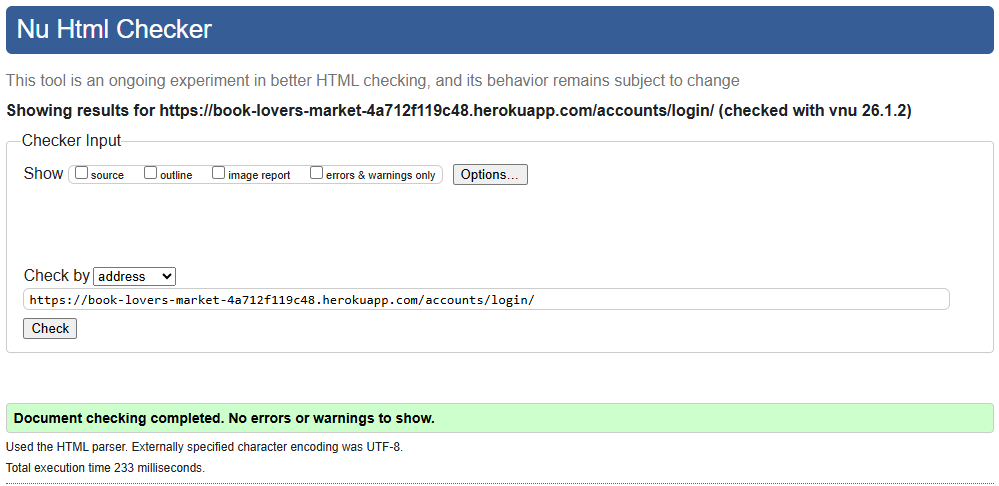
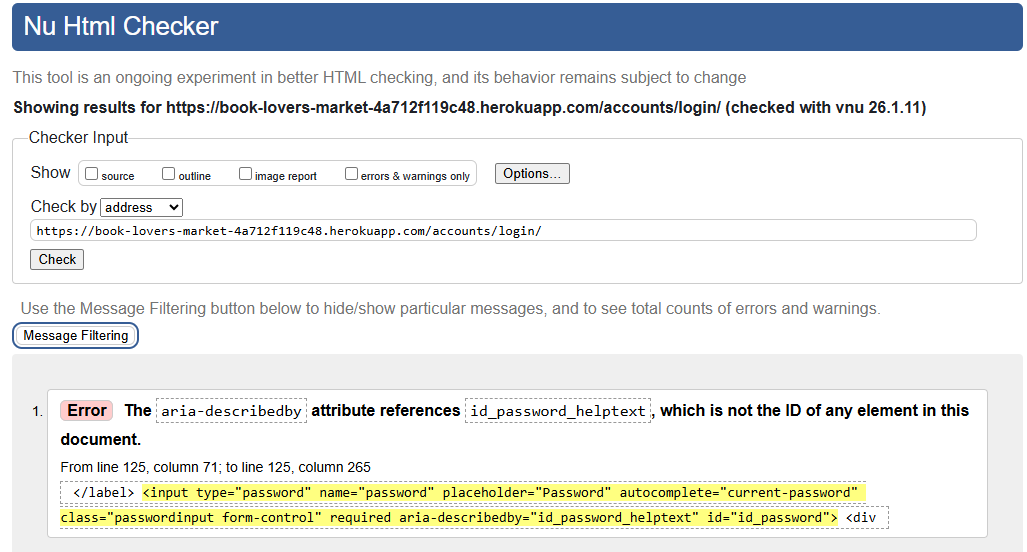
Update html validation issue for login page in TESTING

Changed region(s): [[0.0, 0.5247, 1.0, 0.9877], [0.0, 0.0, 1.0, 0.4938], [0.993, 0.2469, 1.0, 0.7099]]

diff --git a/TESTING.md b/TESTING.md
@@ -18,7 +18,7 @@ Direct links to the results have been added unless made impossible due to login/
 | library | [sales.html](https://github.com/Gary-Burke/book-lovers-market/blob/main/library/templates/library/sales.html) | [Results Link](https://validator.w3.org/nu/?doc=https%3A%2F%2Fbook-lovers-market-4a712f119c48.herokuapp.com%2Flibrary%2Fsales%2F) | ![screenshot](documentation/testing/validation/html-library-sales.png) | No errors or warnings |
 | pages | [about.html](https://github.com/Gary-Burke/book-lovers-market/blob/main/pages/templates/pages/about.html) | [Results Link](https://validator.w3.org/nu/?doc=https%3A%2F%2Fbook-lovers-market-4a712f119c48.herokuapp.com%2Fabout%2F) | ![screenshot](documentation/testing/validation/html-pages-about.png) | No errors or warnings |
 | pages | [home.html](https://github.com/Gary-Burke/book-lovers-market/blob/main/pages/templates/pages/home.html) | [Results Link](https://validator.w3.org/nu/?doc=https%3A%2F%2Fbook-lovers-market-4a712f119c48.herokuapp.com%2F) | ![screenshot](documentation/testing/validation/html-pages-home.png) | No errors or warnings |
-| templates | [login.html](https://github.com/Gary-Burke/book-lovers-market/blob/main/templates/account/login.html) | [Results Link](https://validator.w3.org/nu/?doc=https%3A%2F%2Fbook-lovers-market-4a712f119c48.herokuapp.com%2Faccounts%2Flogin%2F) | ![screenshot](documentation/testing/validation/html-templates-login.png) | No errors or warnings |
+| templates | [login.html](https://github.com/Gary-Burke/book-lovers-market/blob/main/templates/account/login.html) | [Results Link](https://validator.w3.org/nu/?doc=https%3A%2F%2Fbook-lovers-market-4a712f119c48.herokuapp.com%2Faccounts%2Flogin%2F) | ![screenshot](documentation/testing/validation/html-templates-login.png) | There is one html validation error related to an aria-describedby attribute but this caused by the usage of Django AllAuth and Crispy Forms packages and is outside of my control.  |
 | templates | [logout.html](https://github.com/Gary-Burke/book-lovers-market/blob/main/templates/account/logout.html) | [Results Link](https://validator.w3.org/nu/?doc=https%3A%2F%2Fbook-lovers-market-4a712f119c48.herokuapp.com%2Faccounts%2Flogout%2F) | ![screenshot](documentation/testing/validation/html-templates-logout.png) | No errors or warnings |
 | templates | [signup.html](https://github.com/Gary-Burke/book-lovers-market/blob/main/templates/account/signup.html) | [Results Link](https://validator.w3.org/nu/?doc=https%3A%2F%2Fbook-lovers-market-4a712f119c48.herokuapp.com%2Faccounts%2Fsignup%2F) | ![screenshot](documentation/testing/validation/html-templates-signup.png) | No errors or warnings |
 | templates | [password_reset.html](https://github.com/Gary-Burke/book-lovers-market/blob/main/templates/account/signup.html) | [Results Link](https://validator.w3.org/nu/?doc=https%3A%2F%2Fbook-lovers-market-4a712f119c48.herokuapp.com%2Faccounts%2Fpassword%2Freset%2F) | ![screenshot](documentation/testing/validation/html-templates-password-reset.png) | No errors or warnings |
@@ -205,6 +205,7 @@ Any remaining open issues can be tracked [here](https://www.github.com/Gary-Burk
 | Issue | Screenshot |
 | --- | --- |
 | The project is designed to be responsive from `320px` and upwards, in line with the material taught on the course LMS. Minor layout inconsistencies may occur on extra-wide (e.g. 4k/8k monitors), or smart-display devices (e.g. Nest Hub, Smart Watches, Gameboy Color, etc.), as these resolutions are outside the project’s scope, as taught by Code Institute. | n/a |
+| There is one html validation error related to an aria-describedby attribute but this caused by the usage of Django AllAuth and Crispy Forms packages and is outside of my control. | ![screenshot](documentation/testing/validation/html-templates-login.png) |
 
 
 > [!IMPORTANT]  
